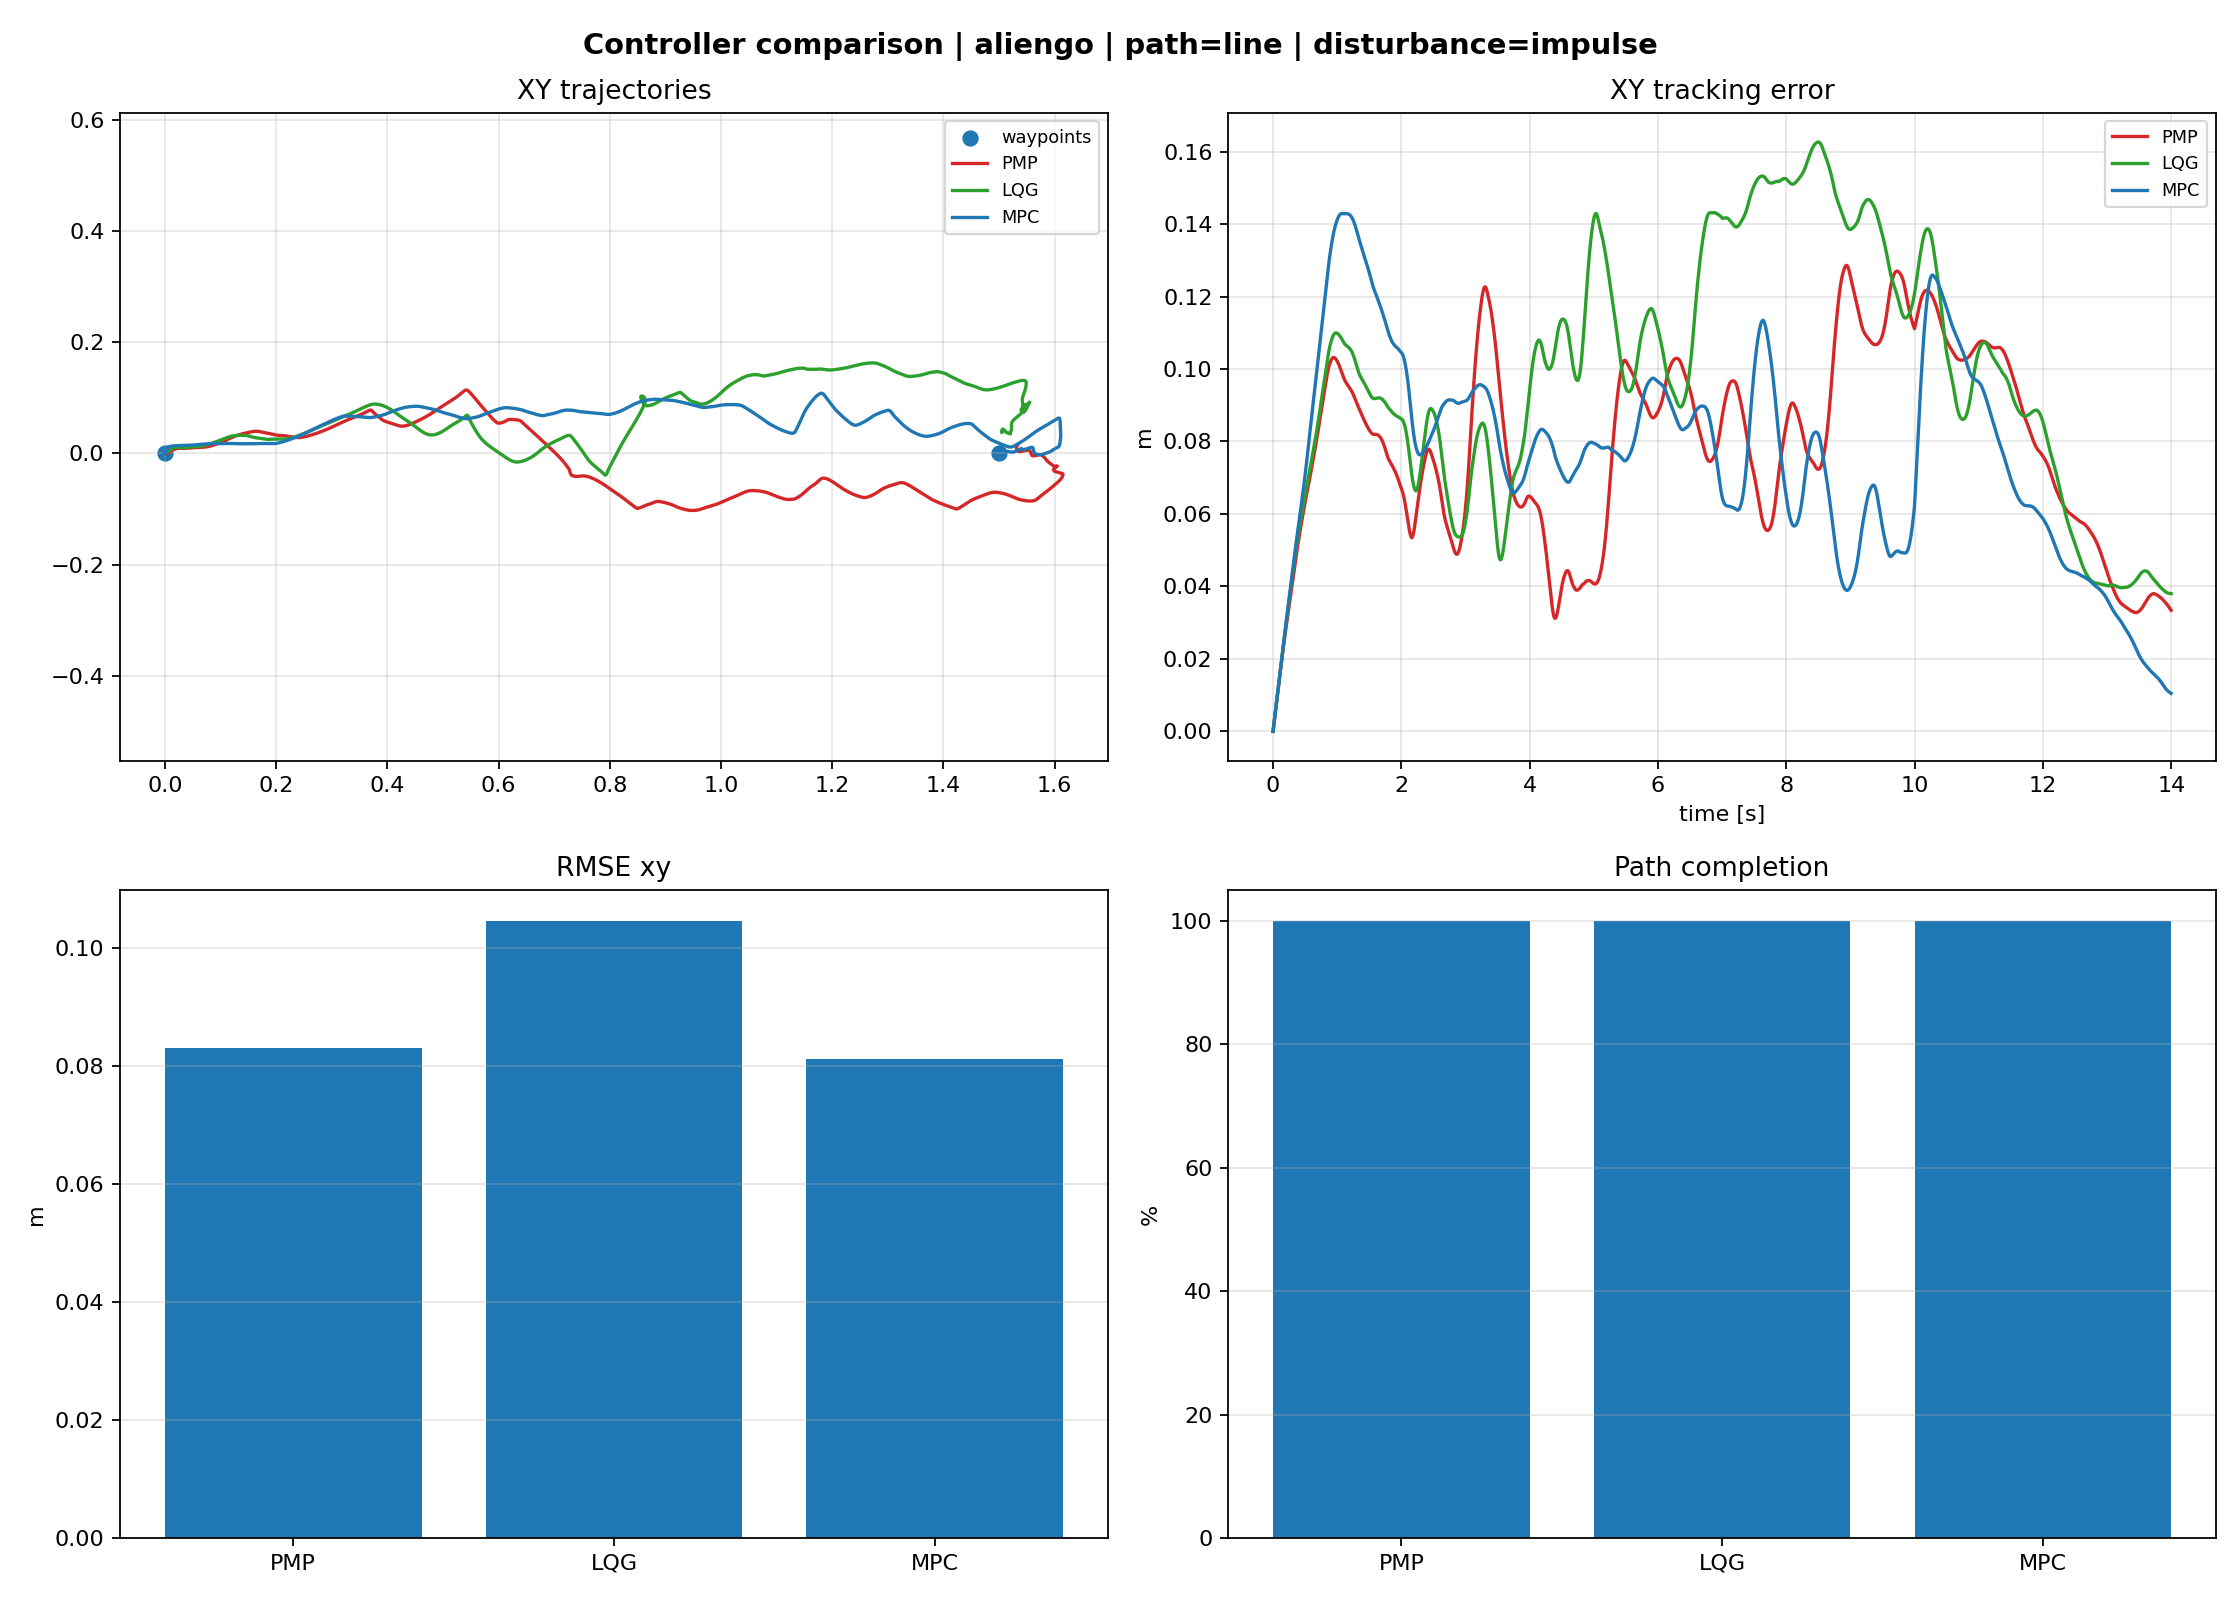
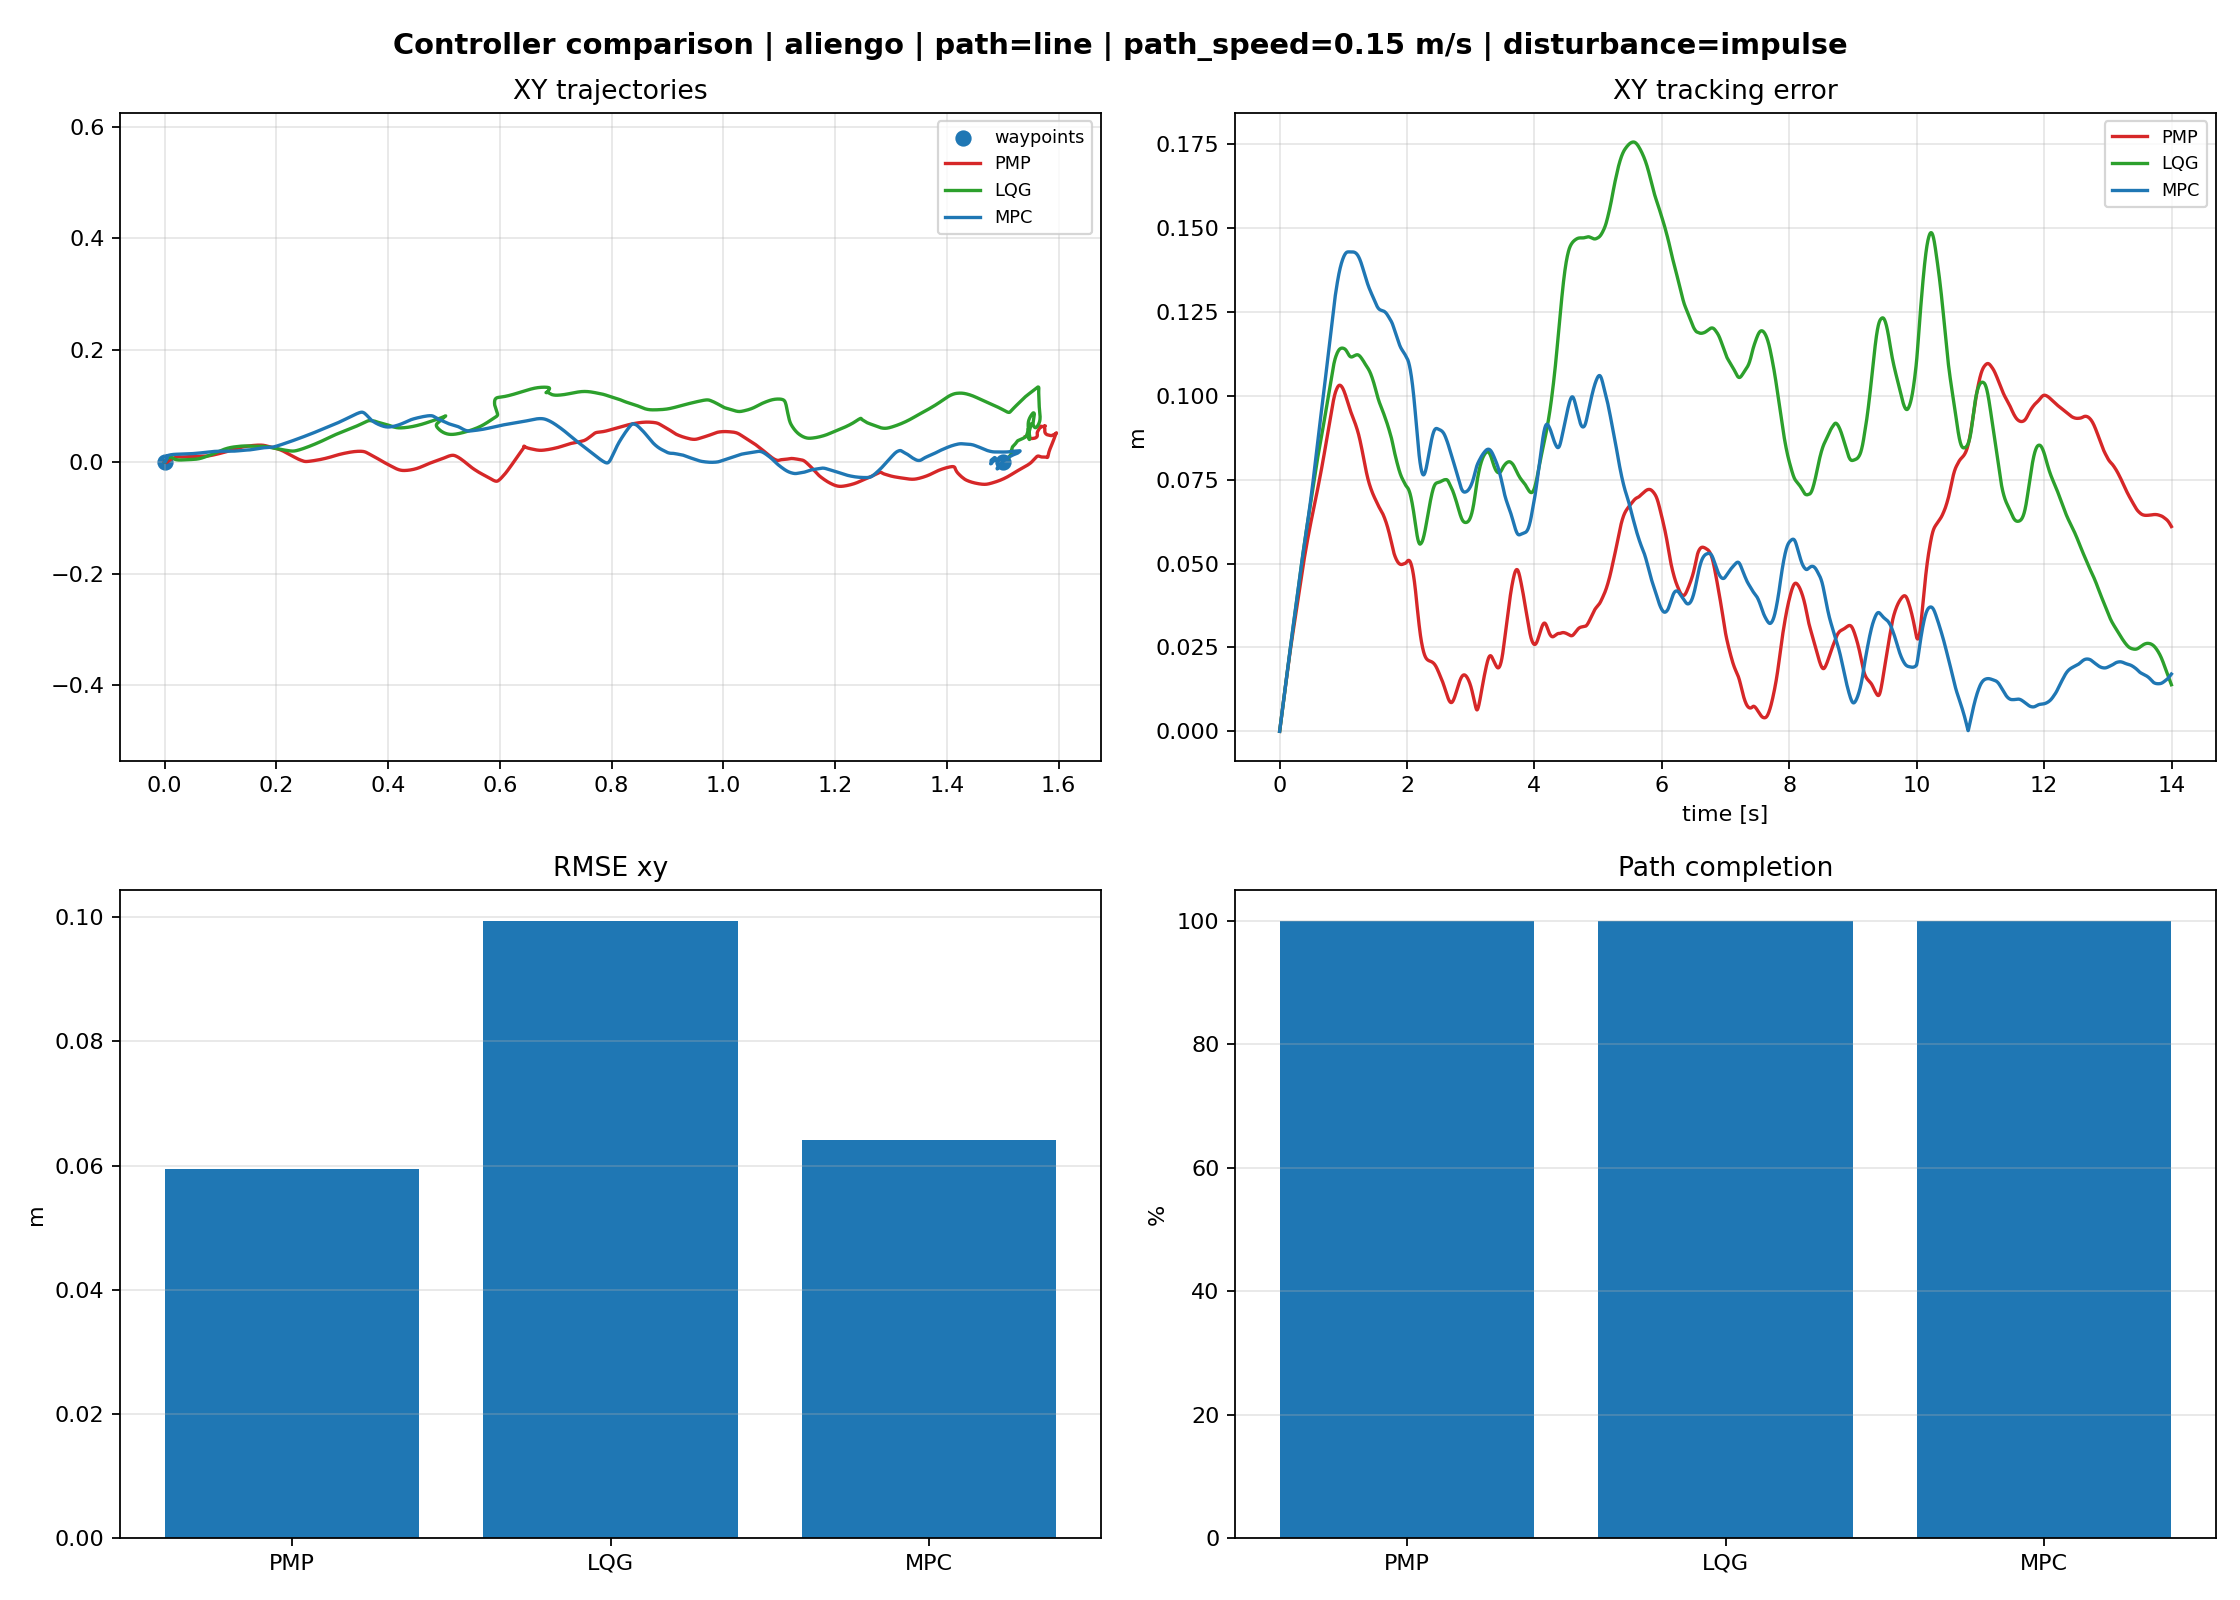
Readme 1.5

diff --git a/examples/run_mujoco.py b/examples/run_mujoco.py
@@ -420,14 +420,29 @@ def compute_metrics(result: dict, traj: WaypointTrajectory, waypoints_world: np.
     final_waypoint_error = float(np.linalg.norm(state[-1, :2] - waypoints_world[-1, :2]))
 
     traj_samples = traj.samples
-    nearest_indices = [
-        nearest_waypoint_index(pos[:2], traj_samples)
-        for pos in state
-    ]
+    pts = np.array([s["pos"][:2] for s in traj_samples])
 
-    last_nearest = max(nearest_indices)
+    progress_idx = 0
+    tol_track = 0.18  # tolerancia máxima para considerar que sí va siguiendo el path
 
-    completion_pct = 100.0 * last_nearest / max(1, len(traj_samples) - 1)
+    for pos in state[:, :2]:
+        # solo busca hacia adelante, no en todo el path
+        search_end = min(progress_idx + 80, len(pts))
+        local_pts = pts[progress_idx:search_end]
+
+        if len(local_pts) == 0:
+            break
+
+        d = np.linalg.norm(local_pts - pos[None, :], axis=1)
+        local_best = int(np.argmin(d))
+        best_dist = float(d[local_best])
+
+        # solo avanza progreso si está cerca del path
+        if best_dist < tol_track:
+            progress_idx += local_best
+
+    completion_pct = 100.0 * progress_idx / max(1, len(pts) - 1)
+    completion_pct = float(np.clip(completion_pct, 0.0, 100.0))
 
     distance_travelled = 0.0
     if len(state) > 1:

diff --git a/README.md b/README.md
@@ -246,6 +246,9 @@ Como es esperado, en un entorno controlado y una ruta simple no es problema para
 **Cuadrado sin perturbaciones 2**
 ![Square no disturbance](images/mujoco_comparison_aliengo_square_none_10.png)
 
+**Cuadrado sin perturbaciones 3**
+![Square no disturbance](images/mujoco_comparison_aliengo_square_none_7.png)
+
 La velocidad del recorrido afecta fuertemente en el control y despempeño del robot, se puede ver claramente como en comparacion de Cuadrado 1,2 y 3 es que una baja velocidad genera mejores resultados y podra seguir los waypoints de mejor manera ya que no sentira la necesidad de cortar camino con tal de mantener ese path speed.
 
 ### Segunda Prueba: Ruta de linea con perturbaciones
@@ -254,7 +257,22 @@ La velocidad del recorrido afecta fuertemente en el control y despempeño del ro
 **Linea con perturbacion persistente**
 ![Line + persistent](images/mujoco_comparison_aliengo_line_persistent.png)
 
-### Tercera Prueba: Ruta Cuadrado con perturbaciones
+En el impulso el que tiene menos RMSE es PMP y con segundo lugar MPC. Sin embargo, con perturbaciones constantes el controlador con el RMSE más pequeño es LQG.
 
+### Tercera Prueba: Ruta Cuadrado con perturbaciones
+**Cuadrado con perturbacion de impulso**
+![Line + persistent](images/mujoco_comparison_aliengo_square_impulse.png)
+**Cuadrado con perturbacion persistente**
+![Line + persistent](images/mujoco_comparison_aliengo_square_persistent.png)
+
+Al ser una trayectoria más difícil, con giros de 90° y una velocidad relativamente alta, el desempeño de los tres controladores se ve afectado significativamente, por lo que reducir la velocidad resulta necesario para que puedan recorrer el cuadrado de forma adecuada. En ambos casos, el controlador **LQG** presenta el menor RMSE. Sin embargo, se observa algo importante y es que bajo perturbaciones de impulso, **MPC** no logra completar el cuadrado, mientras que en perturbaciones persistentes ocurre algo aún más interesante y es que aunque **LQG** mantiene el menor RMSE, no completa correctamente la trayectoria. mientras **MPC** si lo logra. Esto demuestra que en este escenario el RMSE por sí solo no es suficiente para evaluar desempeño, ya que **MPC**, aunque con mayor error, es el único que conserva la forma del cuadrado y completa la geometría de la trayectoria.
 
 ## Conclusiones
+
+A partir de los resultados obtenidos puede concluirse que **LQG fue el controlador con mejor desempeño global**, especialmente en condiciones nominales y en escenarios donde la robustez general fue un factor importante. Su capacidad para minimizar el error de seguimiento, mantener estabilidad y rechazar perturbaciones persistentes lo posicionó como la mejor opción cuando el objetivo principal es precisión y comportamiento consistente.
+
+Por otro lado, en escenarios con **perturbaciones impulsivas**, el controlador **PMP** mostró ventajas importantes debido a su respuesta más agresiva y rápida frente a desviaciones repentinas. Aunque en algunos casos requiere un mayor esfuerzo de control, demostró ser una alternativa efectiva cuando la prioridad es reaccionar rápidamente ante disturbios abruptos.
+
+Finalmente, para **trayectorias complejas con restricciones geométricas**, como el recorrido cuadrado, **MPC** mostró fortalezas relevantes al preservar mejor la forma de la trayectoria mientras sufria de pertirbaciones persistentes, incluso en casos donde otras métricas como el RMSE no reflejaban completamente su desempeño. 
+
+En conjunto, los resultados muestran que no existe un único controlador óptimo para todos los escenarios; la elección depende del objetivo del problema de control. Si se busca precisión y robustez general, LQG resulta la mejor opción; si se requiere capacidad de recuperación rápida ante perturbaciones impulsivas, PMP ofrece ventajas; y si el problema involucra trayectorias complejas o restricciones, MPC puede ser la alternativa más adecuada.
